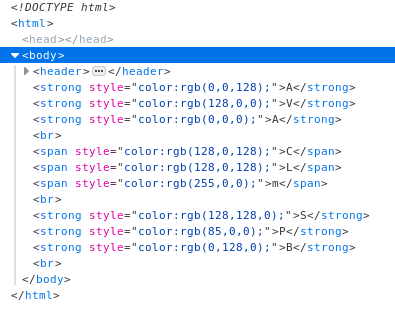
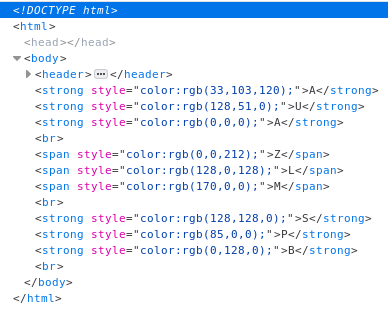
VERSION 1.0
Ça marche!!!!!!!!

Changed region(s): [[0.0, 0.0, 1.0, 0.9808]]

diff --git a/output.html b/output.html
@@ -1,2 +1,2 @@
-<!DOCTYPE html><html><header><title>Texte créé par le script de décodage d'image</title><style>body{font-size:51px;color:white;background:rgb(175,233,221);}</style></header><body>
-<strong style='color:rgb(0,0,128);'>A</strong><span style='color:rgb(128,51,0);'>v</span><strong style='color:rgb(0,0,0);'>A</strong><br><span style='color:rgb(128,0,128);'>C</span><strong style='color:rgb(43,0,0);'>,</strong><span style='color:rgb(255,0,0);'>m</span><br><span style='color:rgb(128,128,0);'>S</span><span style='color:rgb(85,0,0);'>P</span><strong style='color:rgb(0,128,0);'>n</strong><br></body></html>
+<!DOCTYPE html><html><header><title>Texte créé par le script de décodage d'image</title><style>body{font-size:45px;color:white;background:rgb(175,233,221);}</style></header><body>
+<strong style='color:rgb(33,103,120);'>A</strong><em style='color:rgb(128,51,0);'>U</em><strong style='color:rgb(0,0,0);'>A</strong><br><span style='color:rgb(0,0,212);'>Z</span><em style='color:rgb(128,0,128);'>L</em><span style='color:rgb(170,0,0);'>M</span><br><strong style='color:rgb(128,128,0);'>S</strong><span style='color:rgb(212,85,0);'>B</span><em><strong style='color:rgb(85,0,0);'>P</strong></em><br></body></html>

diff --git a/main.m b/main.m
@@ -64,7 +64,7 @@ function [res,B]=countCaracLine(mot)
   A(A>min(A)/2)=200;
   B=[A;A;A;A;A;A;A;A;A;A;A;A;A;A;A;A];
   xprec=x=eprec=0;
-  for i=5:length(A)-5
+  for i=10:length(A)-15
     if A(i)>100+A(i-1)%Détection d'un saut de valeur
       if i-xprec>0.85*eprec
         a+=1;
@@ -264,8 +264,8 @@ for j=1:nb_carac_col %Pour chaque ligne
     alrChk=false;
     
 %Calcul des dimensions en x de la tuile 
-    xmin=dx_search*(i-1)-5; 
-    xmax=dx_search*(i-1)+dx_search+5; 
+    xmin=dx_search*(i-1)-3; 
+    xmax=dx_search*(i-1)+dx_search+3; 
     if xmax>length(mot(1,:)) 
       xmax=length(mot(1,:)); 
     elseif xmin<1 
@@ -274,7 +274,7 @@ for j=1:nb_carac_col %Pour chaque ligne
 
     tile = mot(ymin:ymax,xmin:xmax);%Création de la tuile
     if hypert
-      tilec=file(coor(1)+ymin:coor(1)+ymax,coor(3)+xmin:coor(3)+xmax,:);
+      tilec=file(coor(1)+ymin:coor(1)+ymax-4,coor(3)+xmin:coor(3)+xmax,:);
 ##      figure(4)
 ##      imshow(tilec)
       clear colorT
@@ -313,11 +313,29 @@ for j=1:nb_carac_col %Pour chaque ligne
       colorL=colorT{colormax(2)}{1};
     endif
     rapT=colorT{colormax(2)}{2}/colorT{1}{2};
-    clear kech
+    kech=0;
     
-    
-    %1,47 47 end
-    mean(mean(tile(1:dy_search/10,:)))
+    mt=mean(tile)(1:end);
+    a=2;
+    while(mt(a-1)>=mt(a))
+      a++;
+      if a>length(mt)*9/10
+        a=0;
+        break
+      end
+    endwhile
+     [c,d]=max(mt);
+     vIt=(d-a)/c
+     it=false;
+     if ((vIt>38 &&vIt<130) ||(vIt>150 &&vIt<280) ||(vIt>720 && vIt<1000))
+       for h=1:length(tile)-1
+        tile(end-h,:)=[tile(end-h,1+round(h*length(tile(1,:))/(length(tile)*4.1)):end) tile(end-h,1:round(h*length(tile(1,:))/(length(tile)*4.1)))];
+        it=true;
+       endfor
+       tile(:,8.5*length(tile(1,:))/10:end)=min(min(tile));
+       tile=[tile(:,8.5*length(tile(1,:))/10:end) tile(:,1:8.5*length(tile(1,:))/10)];
+       tile(:,1:1.5*length(tile(1,:))/10)=min(min(tile));
+     endif
     for k=1:length(alpha) 
       %Chargement des motifs 
       ech=cell2mat(alpha{k}(1));
@@ -332,11 +350,10 @@ for j=1:nb_carac_col %Pour chaque ligne
 %Display échantillon 
 ##      figure(2); 
 ##      imshow(ech); 
-%Display tuile 
-##      figure(3);  
-##      imshow(tile);
+
       
 %Intercorrelation  
+      hold off
       d=normxcorr2(ech,tile);  
  
 %Display correlation
@@ -347,32 +364,48 @@ for j=1:nb_carac_col %Pour chaque ligne
 ##      saveas(figure(2),"Rapports/illus/2echv.png");
 ##      saveas(figure(4),"Rapports/illus/2corv.png");
 
-      max_local=max(max(d)); 
+      max_local=max(max(d(length(d)*1.2/4:end,length(d(:,1))/9:8*length(d(:,1))/9))); 
       if max_local > max_global 
 %Chargement de la lettre echantillon
         l=char(alpha{k}(2));
         kech=k;
-        max_global = max_local
-        if max_global < 0.7 
+        max_global = max_local;
+        if max_global < 0.55
            predict = " "; 
         else 
             switch l 
               case "Qdot" 
-                predict = "?";
-              case "Ap" 
+                if predict==""
+                  predict = "?";
+                endif
+            case "Ap" 
+              if predict==""
                 predict = "'";
-              case "Vir" 
+                endif
+            case "Vir" 
+              if predict==""
                 predict = ",";
-              case "Vdot" 
+                endif
+            case "Vdot" 
+              if predict==""
                 predict = ";";
-              case "Tir" 
+                endif
+            case "Tir" 
+              if predict==""
                 predict = "-";
-              case "Edot" 
+                endif
+            case "Edot" 
+              if predict==""
                 predict = "!";
-              case "Dot" 
-                predict = "." ;
-              case "Ddot" 
+                endif
+          case "Dot" 
+              if predict==""
+                predict = "." 
+                endif
+            case "Ddot" 
+              if predict==""
                 predict = ":";
+                endif
               otherwise 
                 predict=l;
             endswitch 
@@ -393,6 +426,7 @@ for j=1:nb_carac_col %Pour chaque ligne
       
     endfor 
     if hypert
+      if kech!=0
       ech=cell2mat(alpha{kech}(1));
       ech=ech(:,end/3:2*end/3);
       clear colorE
@@ -416,9 +450,36 @@ for j=1:nb_carac_col %Pour chaque ligne
           endif
         endfor
       endfor
+    else 
+      G=0;
+    endif
       rapE=colorE{3}{2}/colorE{2}{2};
-      if rapT/rapE > 0.7
-        predict=cstrcat("<strong style='color:rgb(",num2str(colorL(1)),",",num2str(colorL(2)),",",num2str(colorL(3)),");'>",predict,"</strong>");
+      G=rapT/rapE
+      if it && G > 0.63 && G < 10
+        if predict=="A" && vIt>250
+          predict=cstrcat("<em style='color:rgb(",num2str(colorL(1)),",",num2str(colorL(2)),",",num2str(colorL(3)),");'>",predict,"</em>");
+        elseif predict=="A" && vIt<250
+          predict=cstrcat("<strong style='color:rgb(",num2str(colorL(1)),",",num2str(colorL(2)),",",num2str(colorL(3)),");'>",predict,"</strong>");
+          else 
+          predict=cstrcat("<em><strong style='color:rgb(",num2str(colorL(1)),",",num2str(colorL(2)),",",num2str(colorL(3)),");'>",predict,"</strong></em>");
+        endif
+        disp("Gras et italique")
+        
+      elseif it
+        disp("Italique")
+        if predict=="Y" && vIt<110
+          predict=cstrcat("<span style='color:rgb(",num2str(colorL(1)),",",num2str(colorL(2)),",",num2str(colorL(3)),");'>",predict,"</span>");
+        else
+          predict=cstrcat("<em style='color:rgb(",num2str(colorL(1)),",",num2str(colorL(2)),",",num2str(colorL(3)),");'>",predict,"</em>");
+        endif
+        it=false;
+      elseif  G > 0.63 && G < 10
+        disp("Gras")
+        if predict=="I" && G<0.875
+          predict=cstrcat("<span style='color:rgb(",num2str(colorL(1)),",",num2str(colorL(2)),",",num2str(colorL(3)),");'>",predict,"</span>");
+        else
+          predict=cstrcat("<strong style='color:rgb(",num2str(colorL(1)),",",num2str(colorL(2)),",",num2str(colorL(3)),");'>",predict,"</strong>");
+        endif
       else
         predict=cstrcat("<span style='color:rgb(",num2str(colorL(1)),",",num2str(colorL(2)),",",num2str(colorL(3)),");'>",predict,"</span>");
       endif

diff --git a/Rapports/Final/rapport.tex b/Rapports/Final/rapport.tex
@@ -172,6 +172,8 @@ endif
 		\includegraphics[height=0.25\textwidth]{../illus/MixC.png}
 		\caption{Image, capture de la page web, capture du code}
 	\end{figure}
+	\subsection{Limitations}
+	Les performances de notre script sont très limités. Chaque image présente des spécificités qui rendent la détection compliquée. Le script actuel est optimisé pour les majuscules et surtout pour les fichiers images tests fournis, le script fonctionne avec d'autres images mais les résultats ne seront pas parfait, avec par exemple des faux italiques, gras ou caractères. 
 	\section{Conclusion}
 	Au fur et à mesure que le projet avancé, nous avons réussi à détecter de plus en plus d'éléments textuel et hypertextuel sur les images. Même si l'italique reste encore problématique, nous avons réussi à remplir les principaux objectifs.
 	Le script que nous avons réalisé n'est pas le plus optimal il détecte relativement souvent des \textit{faux}, en effet la corrélation n'est pas le plus puissant et le plus optimisé des outils pour réaliser ce travail.
